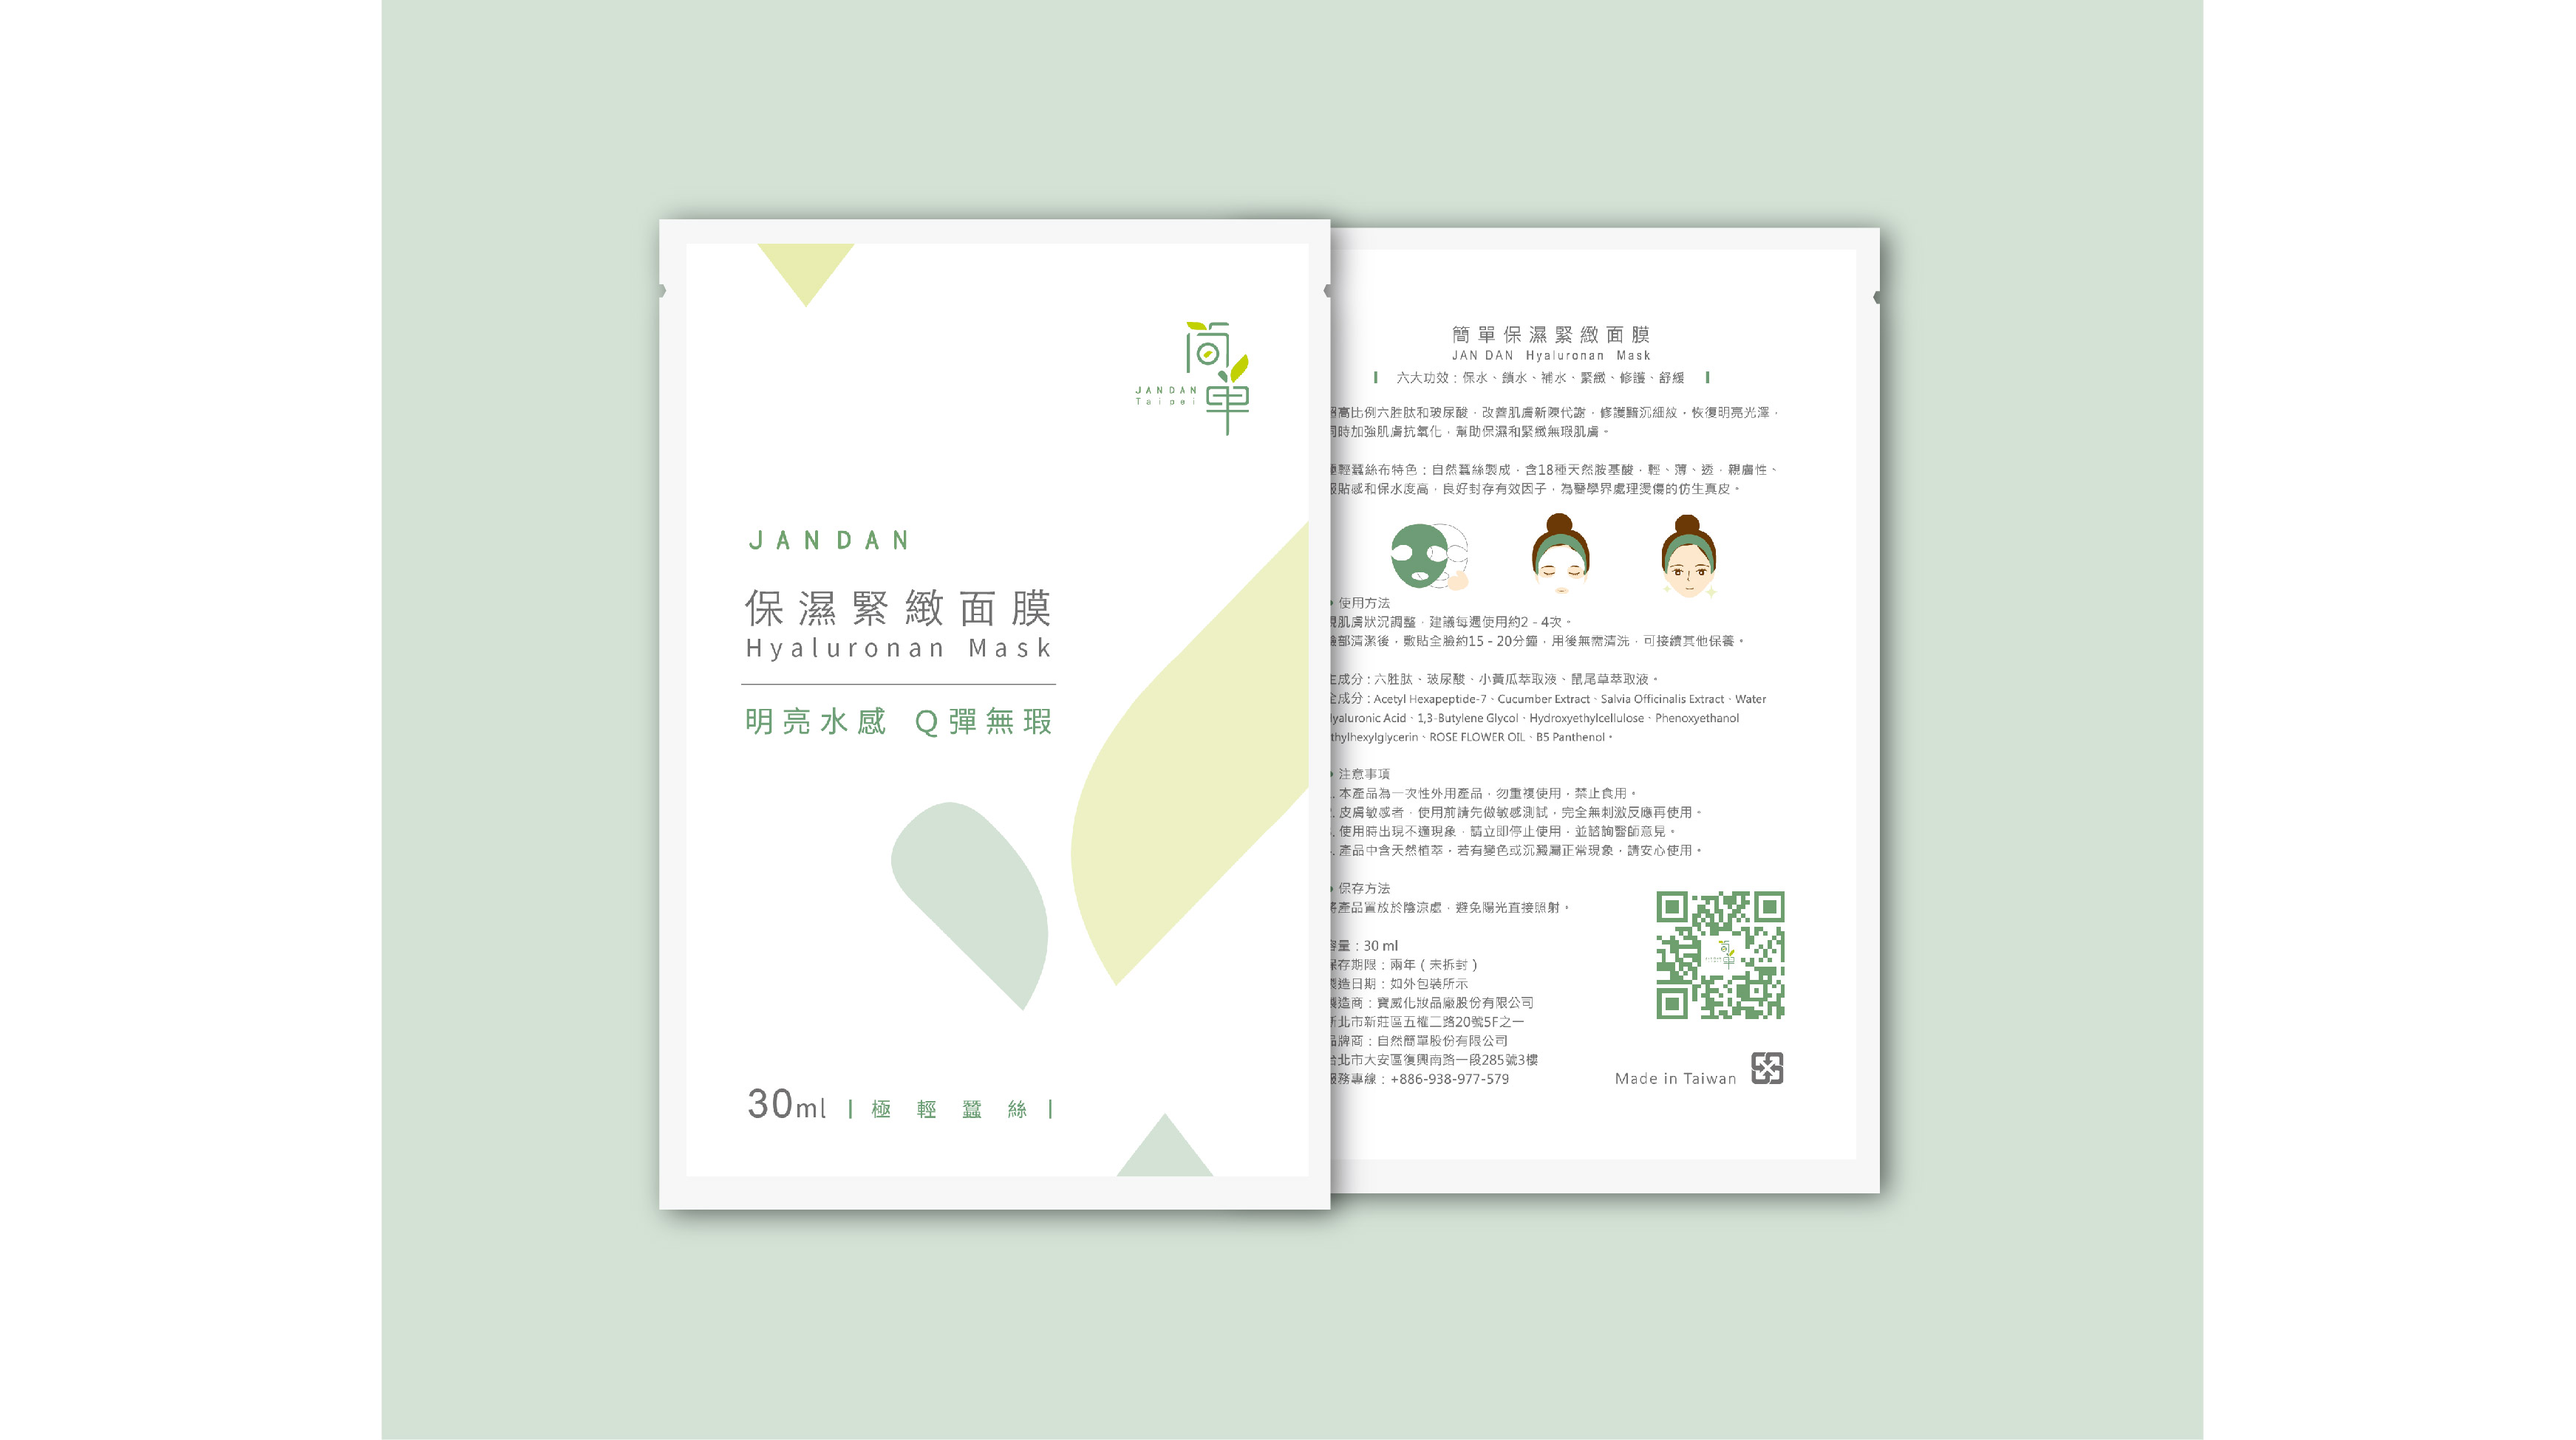
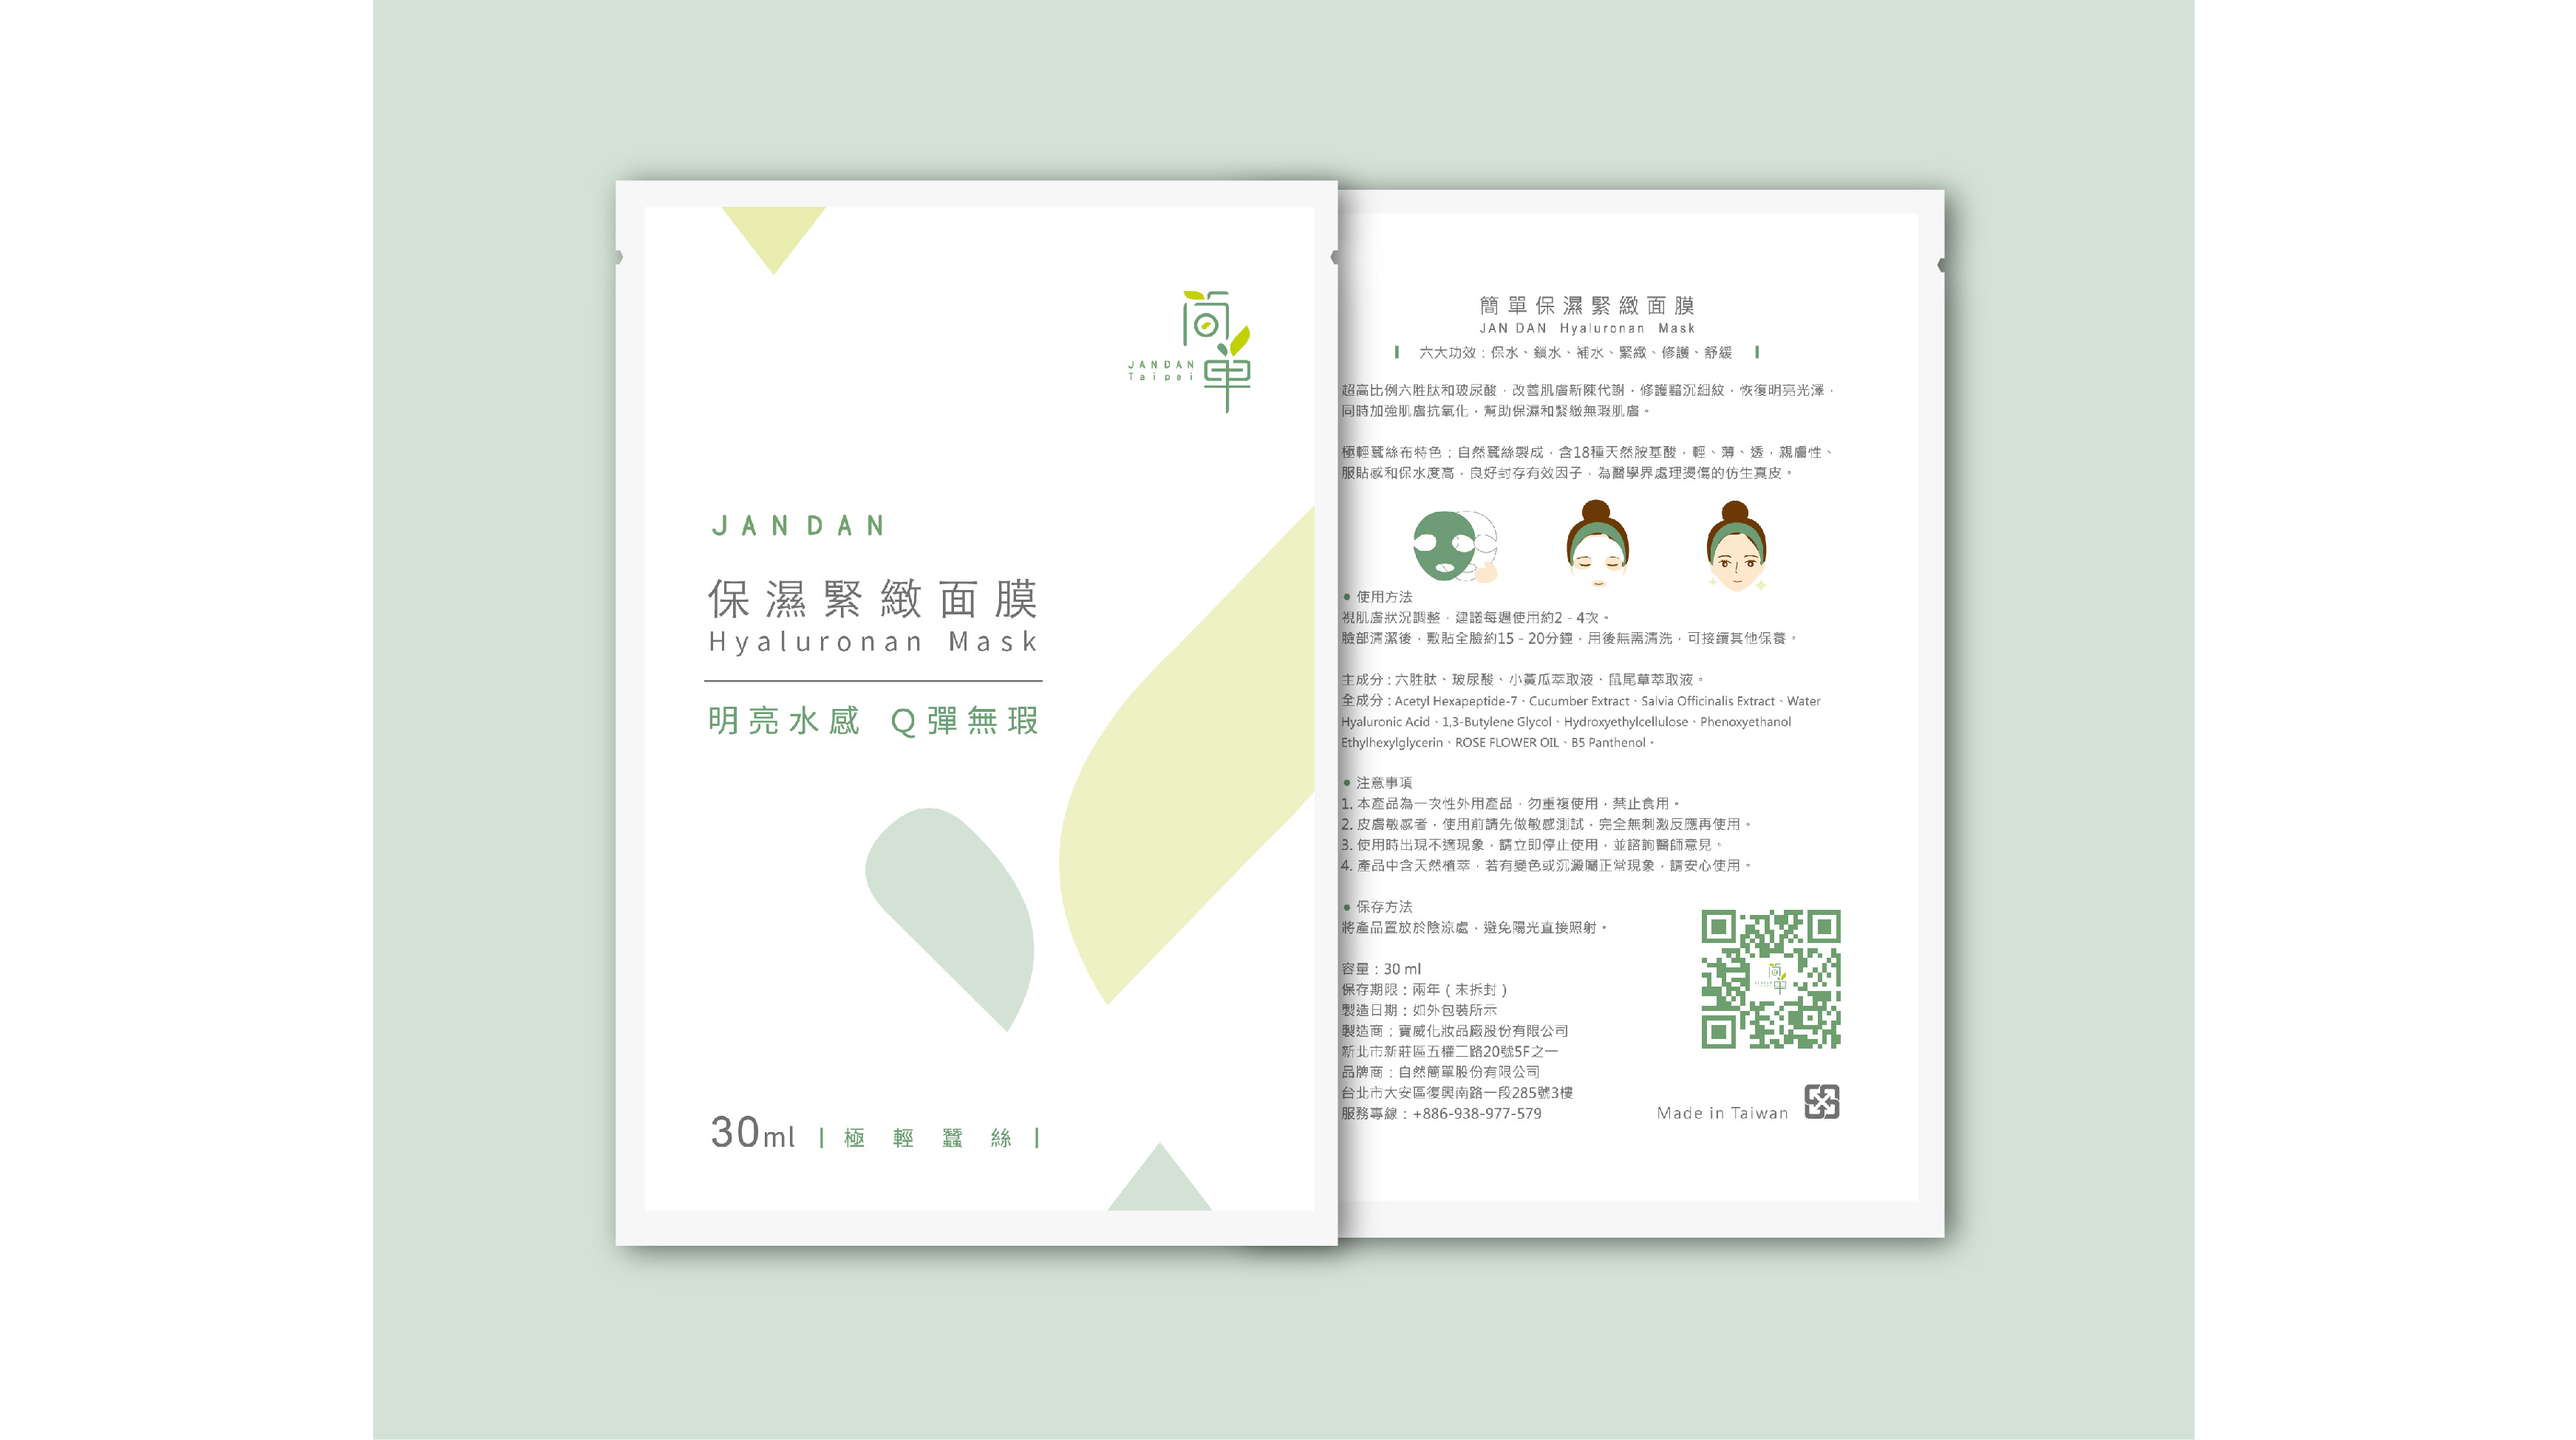
1111111

diff --git a/jandan.html b/jandan.html
@@ -63,7 +63,8 @@
                             <br>  <br>       
                            
     <ul class="singleimg">
-        <li><img src="assets/images/pf31.jpg"></li>
+    
+        <center><li><img src="assets/images/pf31.jpg"></li></center>
         <br><br><br>
         <li><img src="assets/images/pf32.jpg"></li>
          <br><br><br>
@@ -72,7 +73,7 @@
     <br><br><br>
     <div class="textbar">
         <div class="head_title text-center"><br><br>
-            <h4>JANDAN CARE 保濕緊緻面膜</h4>
+            <h4>JANDAN CARE 面膜包裝</h4>
             <div class="head_title text-left">
          <p>搭配 LOGO 設計出象徵簡單品牌的的輔助圖形，並且運用到產品保濕緊緻面膜包裝上，畫面以乾淨、舒服為主，符合簡單 JANDAN CARE 品牌精神「自然、簡單、純粹」。 
         
